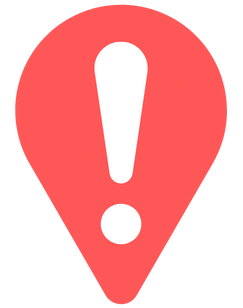
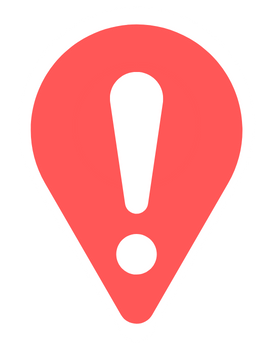
feat: show user location on map

diff --git a/frontend/src/components/Map.jsx b/frontend/src/components/Map.jsx
@@ -1,17 +1,53 @@
-import { Map as MapGL } from "react-map-gl";
+import { useState, useRef, useEffect } from "react";
+import { Map as MapGL, GeolocateControl, Marker, Popup } from "react-map-gl";
 import "mapbox-gl/dist/mapbox-gl.css";
+import marker from "../assets/marker.png";
 
 const Map = () => {
+  //set initial viewport to BSU-BUSTOS
+  const [viewport, setViewport] = useState({
+    longitude: 120.9107,
+    latitude: 14.9536,
+    zoom: 15,
+  });
+
+  const geoControlRef = useRef();
+
   return (
     <MapGL
-      initialViewState={{
-        longitude: 120.9107,
-        latitude: 14.9536,
-        zoom: 17,
-      }}
+      initialViewState={viewport}
       mapStyle={"mapbox://styles/mapbox/streets-v12"}
       mapboxAccessToken={import.meta.env.VITE_MAPBOX_TOKEN}
-    />
+      onLoad={() => {
+        geoControlRef.current?.trigger();
+      }}
+    >
+      <GeolocateControl
+        ref={geoControlRef}
+        position="top-right"
+        positionOptions={{ enableHighAccuracy: true }}
+        trackUserLocation={true}
+        showUserLocation={false}
+        onGeolocate={({ coords }) => {
+          setViewport({
+            longitude: coords.longitude,
+            latitude: coords.latitude,
+            zoom: 15,
+          });
+        }}
+      />
+      <Popup
+        longitude={viewport.longitude}
+        latitude={viewport.latitude}
+        offset={10}
+        closeButton={false}
+      >
+        You are here!
+      </Popup>
+      <Marker longitude={viewport.longitude} latitude={viewport.latitude}>
+        <img src={marker} width={25} height={25} />
+      </Marker>
+    </MapGL>
   );
 };
 
